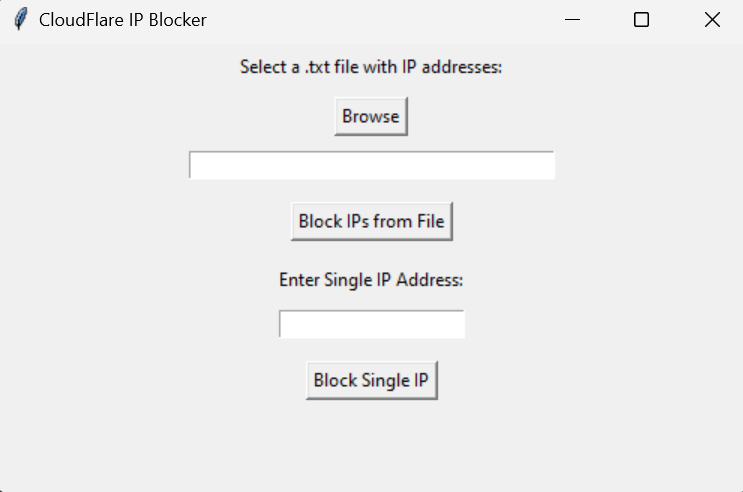
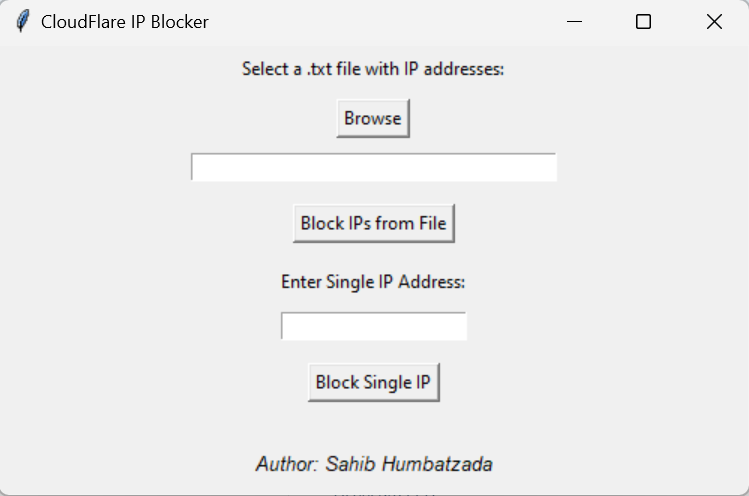
author added

diff --git a/main.py b/main.py
@@ -78,6 +78,8 @@ def show_success_page():
     tk.Button(root, text="Block Single IP", command=handle_single_ip).pack(pady=10)
 
 
+    tk.Label(root,text="Author: Sahib Humbatzada",font=("Helvetica",10,"italic")).pack(side=tk.BOTTOM,pady=10)
+
 
 def select_file():
     """Open file dialog to select a .txt file and display the file path."""
@@ -167,6 +169,8 @@ def create_login_page():
     # Submit Button
     submit_button = tk.Button(root, text="Submit", command=validate_credentials)
     submit_button.pack(pady=10)
+
+    tk.Label(root, text="Author: Sahib Humbatzada", font=("Helvetica", 10, "italic")).pack(side=tk.BOTTOM, pady=10)
 
 
 # Initialize main window

diff --git a/README.md b/README.md
@@ -67,7 +67,6 @@ Authentication Page:
 
 ![alt text](img/image.png)
 
-
 Dashboard Page:
 
 ![alt text](img/image-1.png)
